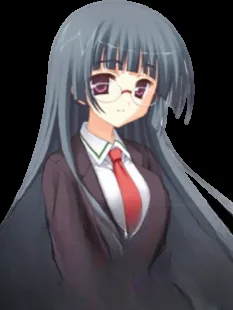
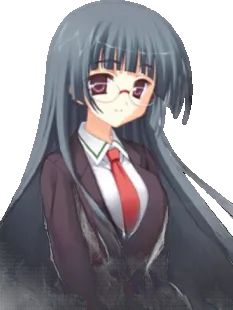
fix: 抹掉立绘的黑色衬底
朝雾春奈、海老原水濑两张源图是从 CG 上抠下来的，人物背后留了一层
不透明的黑色衬底，trim 裁不掉，卡片里就显示成一块黑底。

在 build-portraits.mjs 的流水线最前面加 dropDarkMatte()：只对「边框
整圈都不透明、且这圈基本全黑」的图动手，从边框向内泛洪把连通的暗色
像素改成透明，亮度在 12~64 之间按线性给 alpha 消除锯齿。

前置判定挡掉了误伤：绝大多数源图本来就带透明留白，边框环的不透明
占比很低；泛洪只吃与边框连通的区域，人物身上被头发圈住的暗色不会被
掏空。全量扫描 167 张源图只有这 2 张命中，产物也只有 id 48/52 变化。

验证：产物边框环黑色占比全部降到 25% 以下（原为 85%/80%），浏览器
canvas 采样确认 13 位管乐恋曲角色的 darkRing 最高仅 0.037；179 项
测试全绿。

diff --git a/README.md b/README.md
@@ -243,7 +243,11 @@ node scripts/build-portraits.mjs
 
 脚本按**角色中文名**匹配 `CHARACTERS` 取 id（源图目录年份与作品年份并不一致，不能按目录推断作品），同时生成 [`client/src/portraitIds.json`](client/src/portraitIds.json) 供前端判断某角色是否有立绘。任一文件名匹配不上角色时脚本会列出清单并非零退出。
 
-处理流程分三步：trim 掉透明留白 → **统一裁成 3:4** → 缩放出两档 webp。源图纵横比差异很大（trim 后 0.38~1.46），少数是带实心背景的 CG 横向裁图，若不统一比例，宽图在 `aspect-ratio: 3/4` 的卡片里会被压成一条横带、下方留大片空白。裁切规则是宽图取顶部区域不透明像素的横向中位数当作人物头部位置、据此裁掉两侧，高图则保留顶部。`ASPECT` 常量必须与 `styles.css` 里 `.portrait-card` 的 `aspect-ratio` 保持一致。
+处理流程分四步：抹掉黑色衬底 → trim 掉透明留白 → **统一裁成 3:4** → 缩放出两档 webp。
+
+少数源图是从 CG 上抠下来的，人物背后留了一层不透明的黑色衬底（`朝雾春奈`、`海老原水濑`），直接压 webp 会在卡片里显示成一块黑底。脚本只对「边框整圈都不透明、且这圈基本全黑」的图动手，从边框向内泛洪把连通的暗色像素改成透明——绝大多数源图本来就带透明留白，边框环的不透明占比很低，会被前置判定挡掉，不会误伤深色头发或深色背景的立绘；人物身上被头发圈住的暗色区域与边框不连通，也不会被掏空。
+
+源图纵横比差异很大（trim 后 0.38~1.46），少数是带实心背景的 CG 横向裁图，若不统一比例，宽图在 `aspect-ratio: 3/4` 的卡片里会被压成一条横带、下方留大片空白。裁切规则是宽图取顶部区域不透明像素的横向中位数当作人物头部位置、据此裁掉两侧，高图则保留顶部。`ASPECT` 常量必须与 `styles.css` 里 `.portrait-card` 的 `aspect-ratio` 保持一致。
 
 立绘目前覆盖全部 167 位角色。若将来新增角色而立绘缺位，`Portrait` 组件会渲染姓名首字占位，布局不会塌陷。
 
